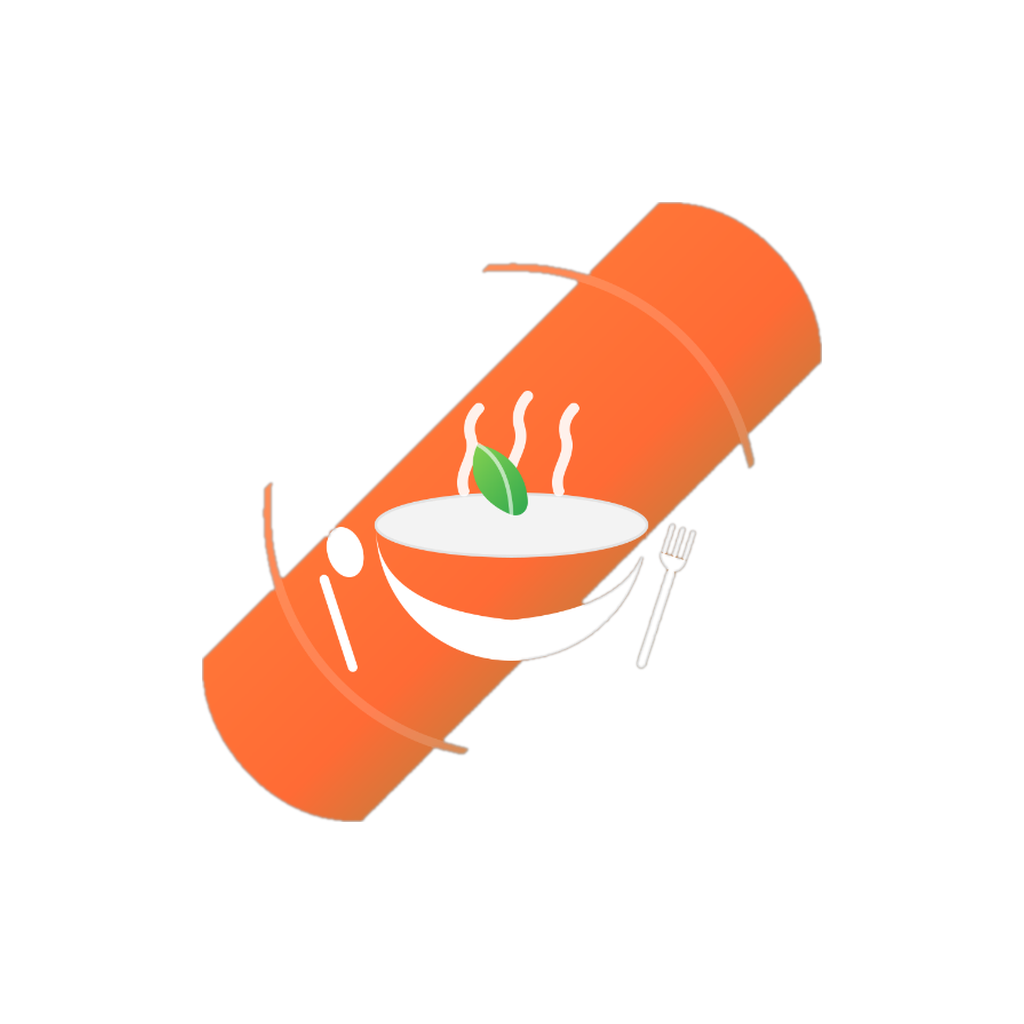
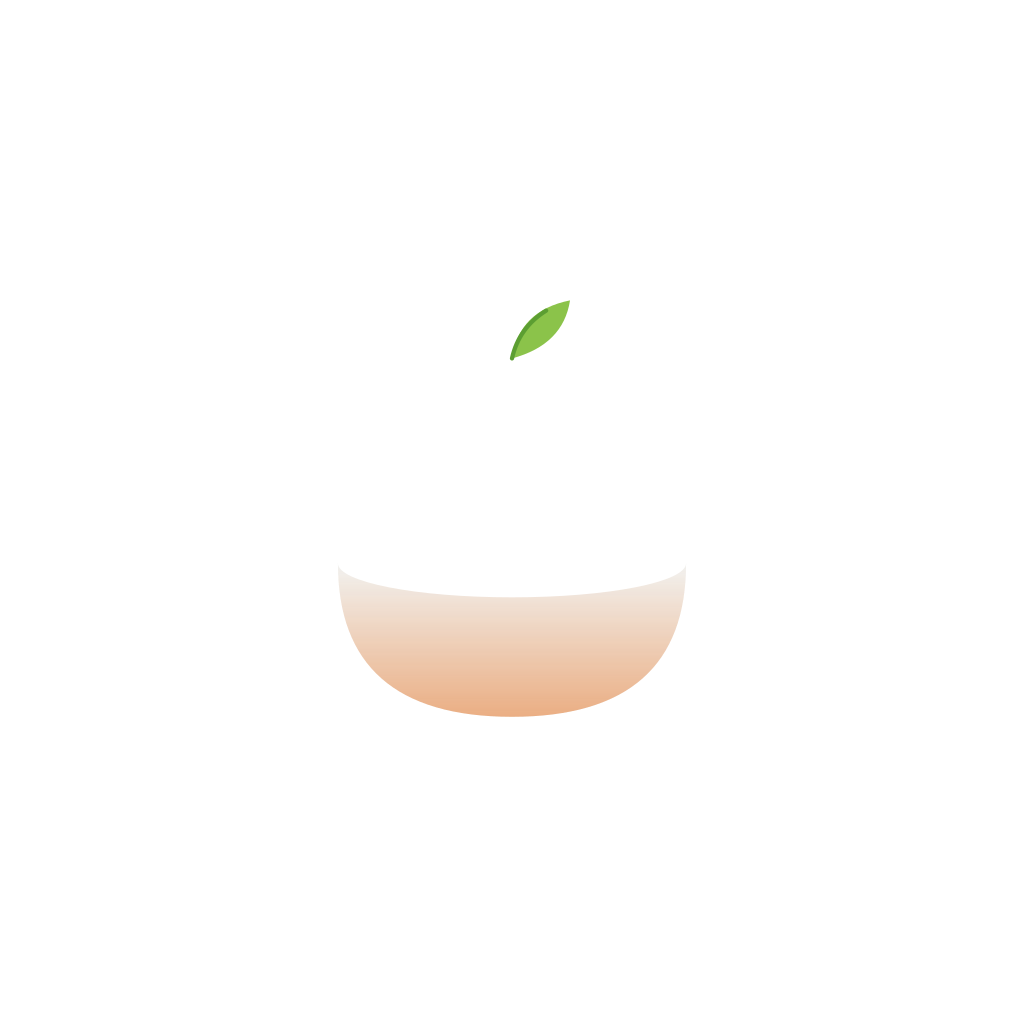
updet

Changed region(s): [[0.1875, 0.1875, 0.8125, 0.8125]]

diff --git a/sisarasaweb/laporan.html b/sisarasaweb/laporan.html
@@ -96,37 +96,6 @@
       </div>
     </div>
 
-    <!-- Rincian potongan admin: transparansi penuh, biar mitra tau persis
-         omzet kotor vs berapa yang kepotong komisi, bukan cuma angka bersih
-         doang. -->
-    <div class="row g-4 mb-4">
-      <div class="col-md-6 col-lg-4">
-        <div class="stat-card">
-          <div class="d-flex justify-content-between align-items-center mb-3">
-            <div>
-              <div class="text-muted mb-1" style="font-size: 0.9rem;">Omzet Kotor</div>
-              <h3 class="fw-bold mb-0" id="repRevenueGross">-</h3>
-            </div>
-            <div class="stat-icon icon-blue"><i class="fa-solid fa-cash-register"></i></div>
-          </div>
-          <div class="text-muted" style="font-size: 0.85rem;">Sebelum dipotong komisi admin</div>
-        </div>
-      </div>
-
-      <div class="col-md-6 col-lg-4">
-        <div class="stat-card">
-          <div class="d-flex justify-content-between align-items-center mb-3">
-            <div>
-              <div class="text-muted mb-1" style="font-size: 0.9rem;">Total Potongan Admin</div>
-              <h3 class="fw-bold mb-0 text-danger" id="repCommission">-</h3>
-            </div>
-            <div class="stat-icon icon-orange"><i class="fa-solid fa-percent"></i></div>
-          </div>
-          <div class="text-muted" style="font-size: 0.85rem;" id="repCommissionRule">Komisi 5%, hanya untuk transaksi ≥ Rp50.000</div>
-        </div>
-      </div>
-    </div>
-
     <div class="row g-4">
       <!-- Menu Terlaris -->
       <div class="col-lg-6">
@@ -260,8 +229,6 @@
         });
 
         document.getElementById('repRevenue').textContent = formatRupiah(revenueNet);
-        document.getElementById('repRevenueGross').textContent = formatRupiah(revenueGross);
-        document.getElementById('repCommission').textContent = '- ' + formatRupiah(totalPotongan);
         document.getElementById('repCompleted').textContent = completedCount;
         document.getElementById('repCancelled').textContent = cancelledCount;
 